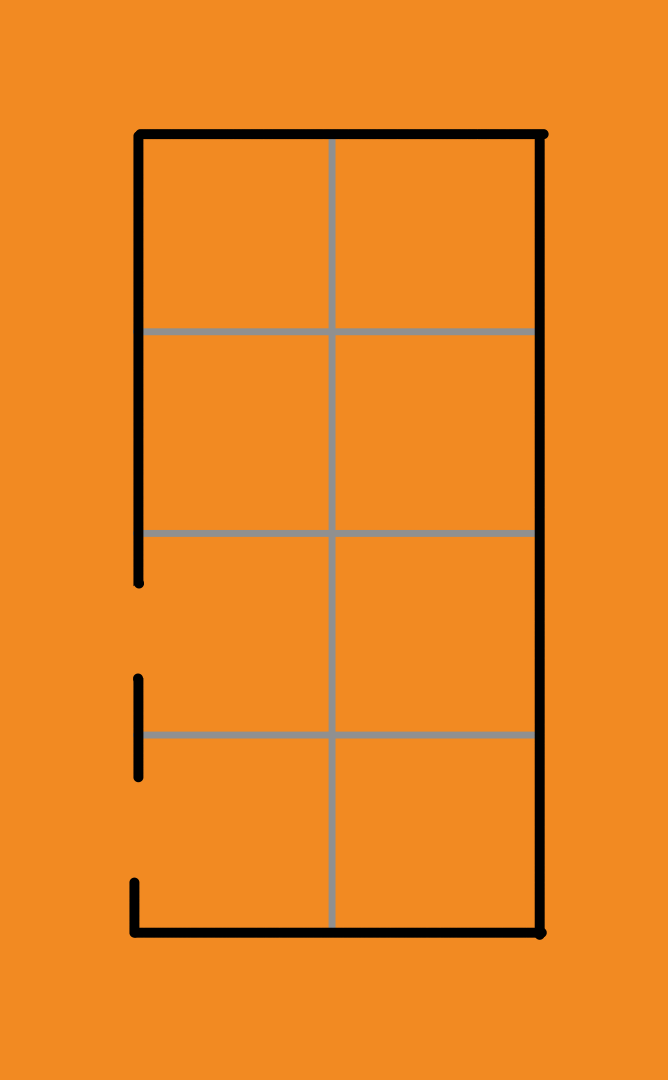
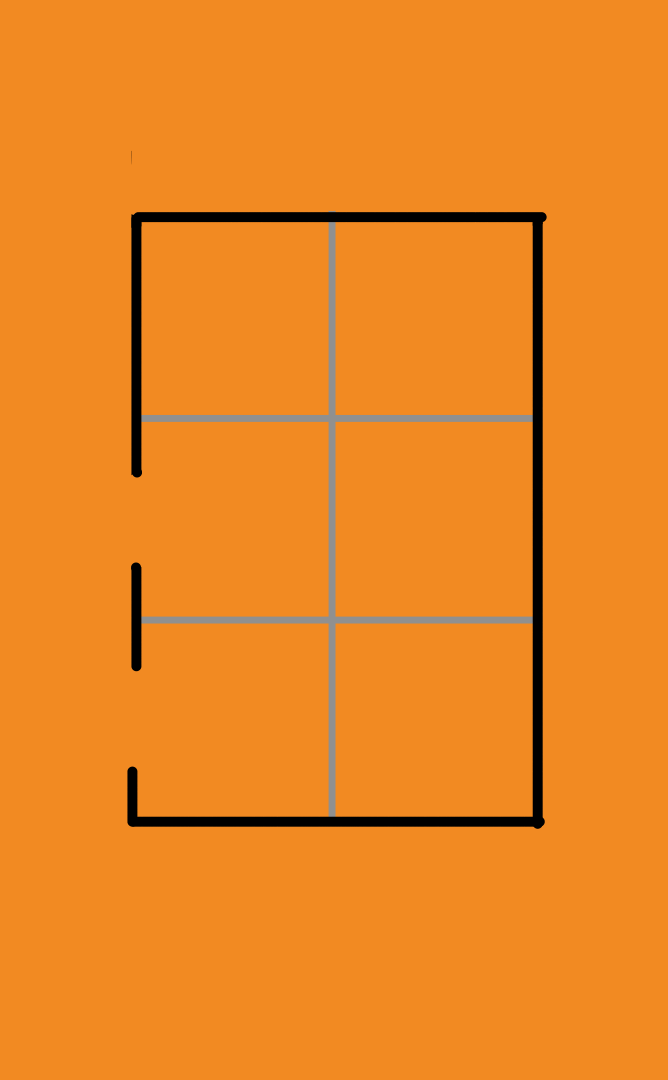
X

Changed region(s): [[0.1796, 0.1222, 0.8383, 0.8861]]

diff --git a/docs/grid2/index.js b/docs/grid2/index.js
@@ -2,17 +2,17 @@ import g from '../canvasapp.js';
 
 g.set_design_size(668, 1080);
 
-const b_loop      = g.loop(g.frames(i_box   ));
-const u_loop      = g.loop(g.frames(i_u1    ));
-const l_loop      = g.loop(g.frames(i_l2    ));
-const exit02_loop = g.loop(g.frames(i_exit02));
-const exit03_loop = g.loop(g.frames(i_exit03));
+const b_loop     = g.loop(g.frames(i_box ));
+const u_loop     = g.loop(g.frames(i_u1  ));
+const l_loop     = g.loop(g.frames(i_l2  ));
+const exit1_loop = g.loop(g.frames(i_exit), 10, 0, 200);
+const exit2_loop = g.loop(g.frames(i_exit), 10, 0, 400);
 
-const t = [ new Array(4), new Array(4) ];
+const t = [ new Array(3), new Array(3) ];
 for (let c = 0; c < t.length; ++c) {
 	for (let r = 0; r < t[0].length; ++r) {
-		const x = 140 + c * 200;
-		const y = 135 + r * 200;
+		const x = 136 + c * 200;
+		const y = 209 + r * 200;
 		t[c][r] = g.touch(g.rect(x, y, x + 200, y + 200));
 	}
 }
@@ -20,12 +20,12 @@ for (let c = 0; c < t.length; ++c) {
 let bc = 0;
 let br = 0;
 let uc = 0;
-let ur = 2;
+let ur = 1;
 let lc = 1;
-let lr = 3;
+let lr = 2;
 
 const can_move_down = () => {
-	if (br === 3) return false;
+	if (br === 2) return false;
 	if (bc === lc && br === lr - 1) return false;
 	if (bc === lc && br === lr && bc === uc && br === ur - 1) return false;
 	return true;
@@ -51,11 +51,11 @@ const can_move_right = () => {
 };
 
 const exit_1 = () => {
-	return bc === 0 && br === 2 && (uc !== 0 || ur !== 2);
+	return bc === 0 && br === 1 && (uc !== 0 || ur !== 1);
 };
 
 const exit_2 = () => {
-	return bc === 0 && br === 3 && (uc !== 0 || ur !== 3);
+	return bc === 0 && br === 2 && (uc !== 0 || ur !== 2);
 };
 
 const view = () => {
@@ -67,16 +67,16 @@ const view = () => {
 	l_loop.set_dy(lr * 200);
 
 	if (exit_1()) {
-		g.set_page_state('exit02');
-		g.delay(.5).stops(exit02_loop).starts(
+		g.set_page_state('exit1');
+		g.delay(.5).stops(exit1_loop).starts(
 			g.delay(.5).starts(g.goto('grid1')),
 			() => b_loop.set_dx(-190)
 		).start();
 		return;
 	}
 	if (exit_2()) {
-		g.set_page_state('exit03');
-		g.delay(.5).stops(exit03_loop).starts(
+		g.set_page_state('exit2');
+		g.delay(.5).stops(exit2_loop).starts(
 			g.delay(.5).starts(g.goto('s1')),
 			() => b_loop.set_dx(-190)
 		).start();
@@ -116,22 +116,6 @@ const move_right = () => {
 	view();
 };
 
-// const down = (c, r) => {
-// 	return bc === c && br === r - 1;
-// }
-
-// const up = (c, r) => {
-// 	return bc === c && br === r + 1;
-// }
-
-// const left = (c, r) => {
-// 	return bc === c + 1 && br === r;
-// }
-
-// const right = (c, r) => {
-// 	return bc === c - 1 && br === r;
-// }
-
 for (let c = 0; c < t.length; ++c) {
 	for (let r = 0; r < t[0].length; ++r) {
 		t[c][r].starts(() => {
@@ -150,7 +134,7 @@ window.addEventListener('load', () => {
 	b_loop.start();
 	u_loop.start();
 	l_loop.start();
-	if (g.get_page_state('exit02')) exit02_loop.start();
-	if (g.get_page_state('exit03')) exit03_loop.start();
+	if (g.get_page_state('exit1')) exit1_loop.start();
+	if (g.get_page_state('exit2')) exit2_loop.start();
 	view();
 });

diff --git a/docs/grid2/index.html b/docs/grid2/index.html
@@ -29,13 +29,12 @@
 <body>
 	<div id="g_container_div"><canvas id="g_canvas"></canvas></div>
 	
-	<img id="g_bg"     src="images/bg.png"       />
-	<img id="i_blank"  src="../images/blank.png" />
-	<img id="i_box"    src="images/box.png"      />
-	<img id="i_u1"     src="images/u1.png"       />
-	<img id="i_l2"     src="images/l2.png"       />
-	<img id="i_exit02" src="images/exit02.png"   />
-	<img id="i_exit03" src="images/exit03.png"   />
+	<img id="g_bg"    src="images/bg.png"       />
+	<img id="i_blank" src="../images/blank.png" />
+	<img id="i_box"   src="images/box.png"      />
+	<img id="i_u1"    src="images/u1.png"       />
+	<img id="i_l2"    src="images/l2.png"       />
+	<img id="i_exit"  src="images/exit.png"   />
 	
 	<script type="module" src="index.js"></script>
 </body>
